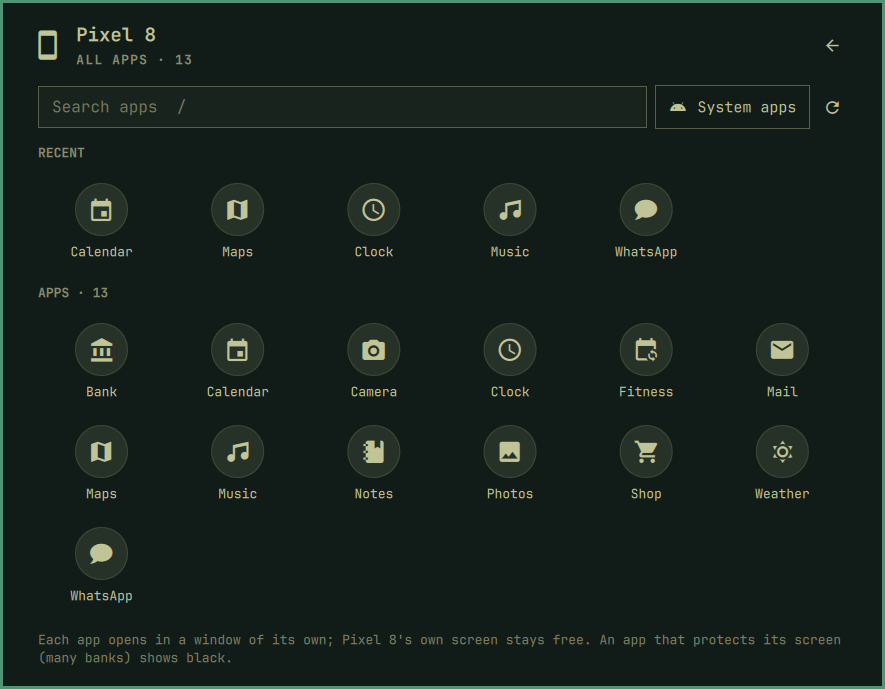
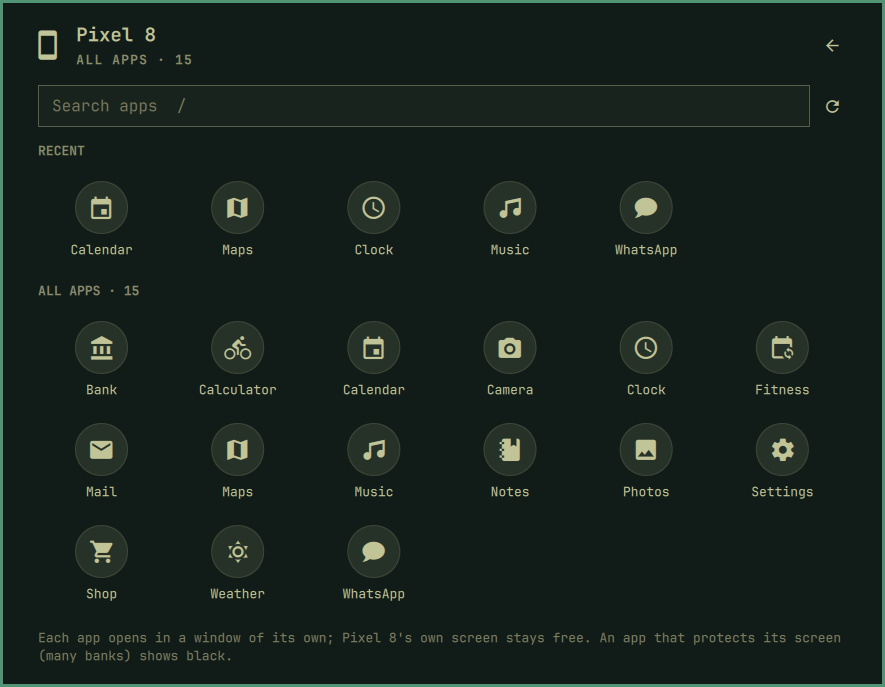
Demo: the calculator's glyph (#116)

diff --git a/Model.js b/Model.js
@@ -74,7 +74,7 @@ var GLYPH = {
   // Demo apps (no real icons in demo mode)
   clock: "\u{F0150}", calendar: "\u{F00ED}", camera: "\u{F0100}", map: "\u{F034D}", music: "\u{F075A}",
   notes: "\u{F082E}", weather: "\u{F0599}", chat: "\u{F0B79}", mail: "\u{F01EE}", image: "\u{F02E9}",
-  calculator: "\u{F00A3}", cog: "\u{F0493}", cart: "\u{F0110}", bank: "\u{F0070}", fitness: "\u{F0E8E}"
+  calculator: "\u{F00EC}", cog: "\u{F0493}", cart: "\u{F0110}", bank: "\u{F0070}", fitness: "\u{F0E8E}"
 }
 
 // One pace for every motion in the plugin: things leave quickly and arrive
